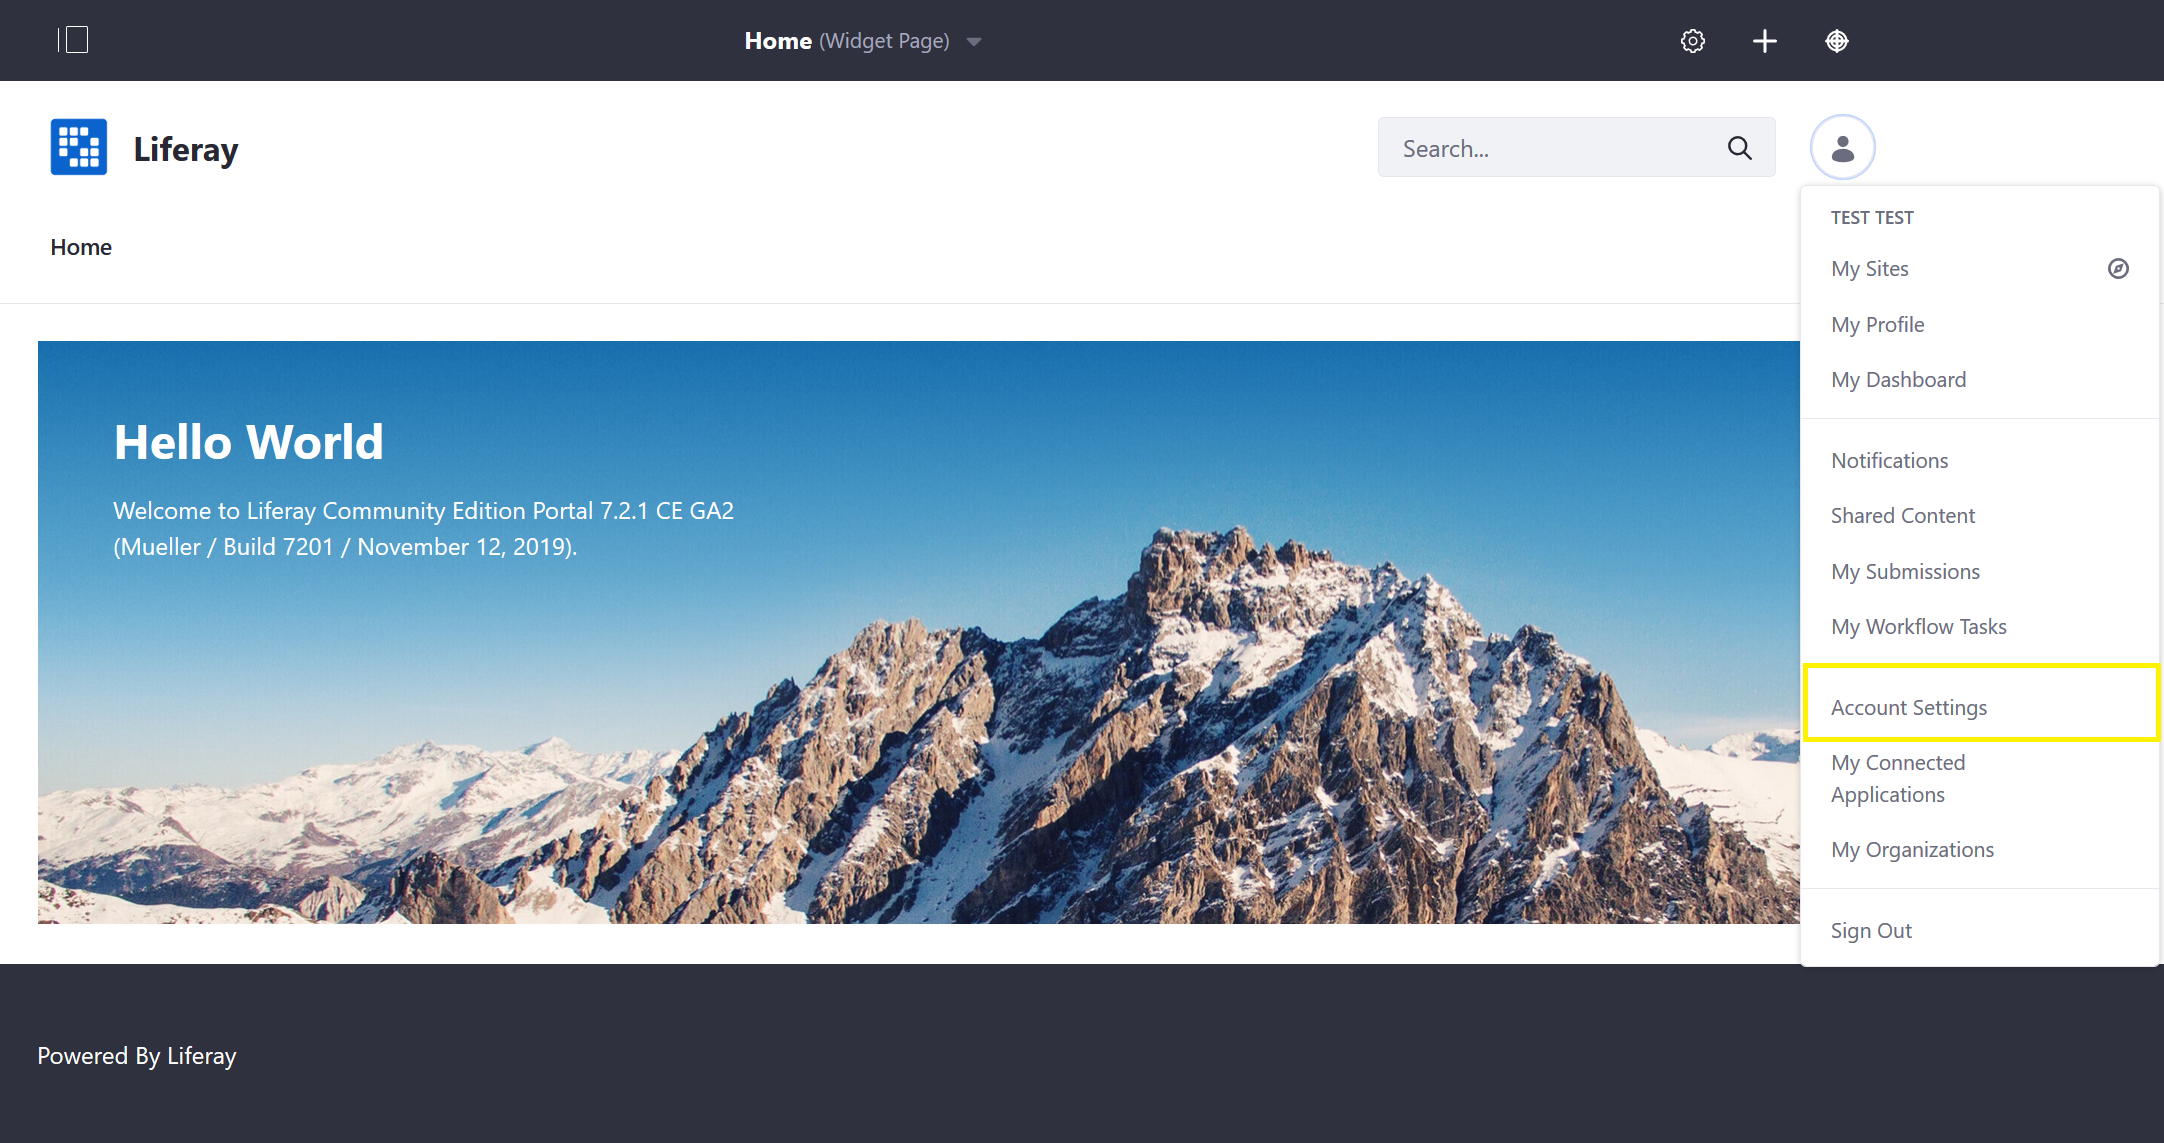
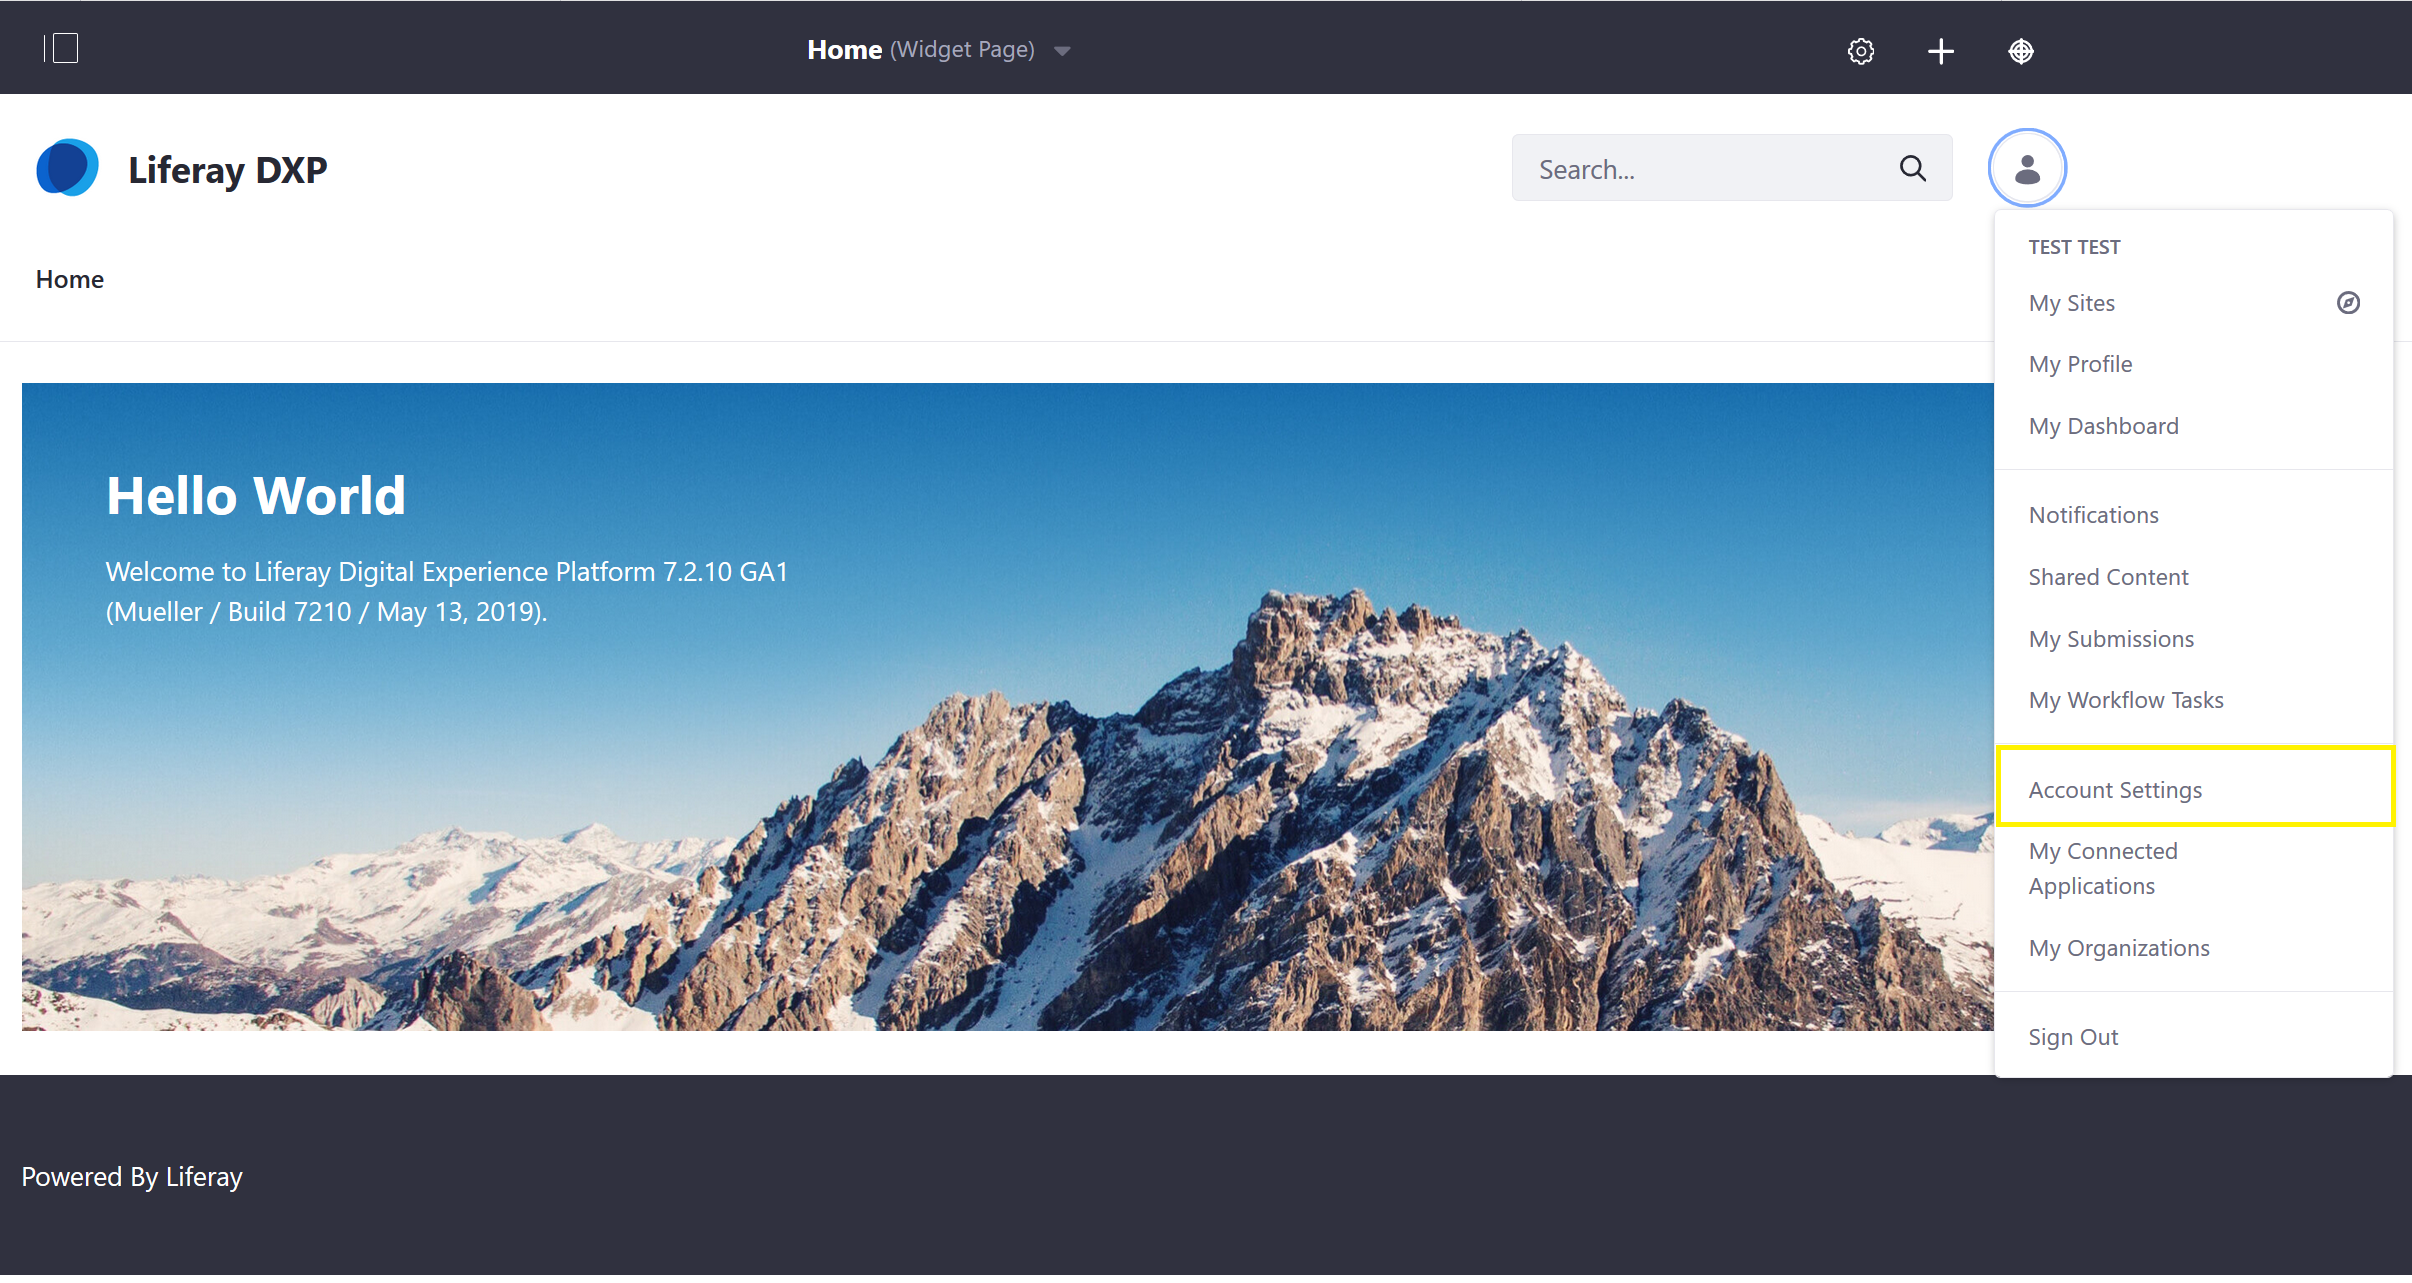
Updated images for DXP

diff --git a/docs/dxp/7.x/en/getting-started/introduction-to-the-admin-account.md b/docs/dxp/7.x/en/getting-started/introduction-to-the-admin-account.md
@@ -22,14 +22,14 @@ The Admin user is created by default in any new installation of Liferay DXP and 
 
 ### Changing the Login Password
 
-1. Open the [_Product Menu_](./using-the-product-menu.md) and navigate to the _Account Menu_ -> _My Account_ -> _Account Settings_ -> _Password_.
+1. Open the [_Product Menu_](./using-the-product-menu.md) and navigate to the _User Avatar_ -> _Account Settings_ -> _Password_.
 1. Enter your _Current Password_ and provide a _New Password_.
 
     ![Setting a Password](./introduction-to-the-admin-account/images/04.png "Setting a Password")
 
 ### Changing Account Information
 
-1. Open the _Product Menu_ and navigate to the _Account Menu_ -> _My Account_ -> _Account Settings_.
+1. Open the _Product Menu_ and navigate to the _User Avatar_ -> _Account Settings_.
 
     ![Account Settings](./introduction-to-the-admin-account/images/02.png "Account Settings")
 
@@ -41,7 +41,7 @@ The Admin user is created by default in any new installation of Liferay DXP and 
 
 To log out of your account:
 
-1. Open the _Product Menu_ and navigate to the _Account Menu_ -> _Sign Out_.
+1. Open the _Product Menu_ and click the _User Avatar_ -> _Sign Out_.
 
     ![Signing Out](./introduction-to-the-admin-account/images/05.png "Signing Out")
 
